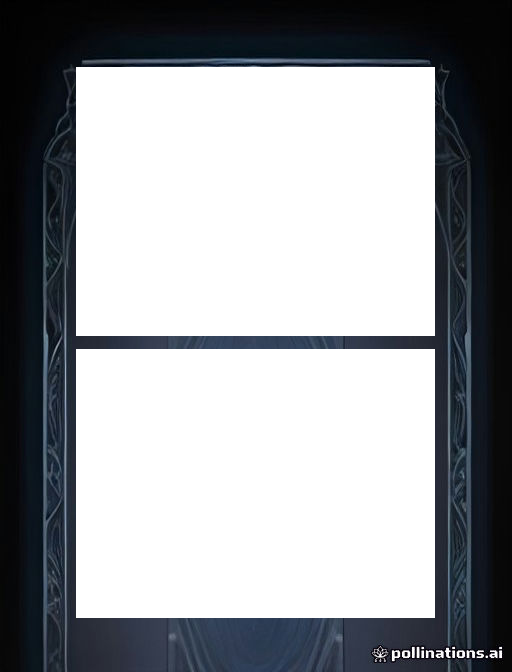
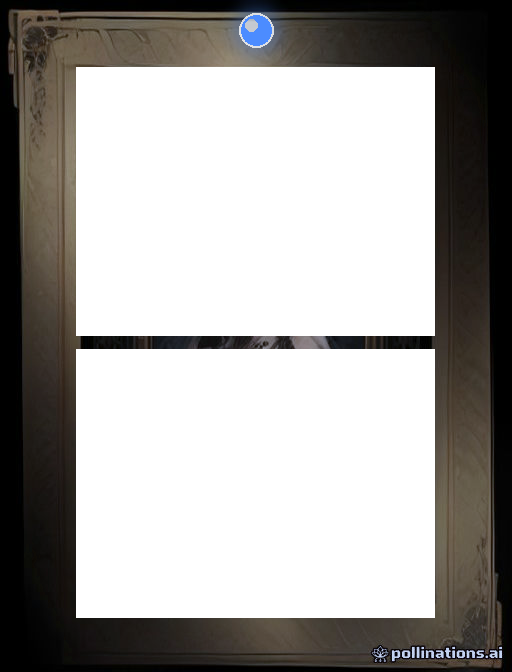
统一卡框：AI生成一个底框+PIL派生5个稀有度版本
- 新增 generate_frames_unified.py：先AI生成银灰底框，再用PIL统一派生
- apply_tint(): 保留亮度替换色相，各稀有度边框颜色不同但设计一致
- draw_gem(): 顶部中心绘制发光宝石（蓝/橙/紫/红），basic无宝石
- 保证框大小、装饰设计完全一致，只有颜色和宝石区分稀有度
- 所有5个卡框基于同一底框，解决之前各自独立生成大小风格不统一问题

Changed region(s): [[0.0, 0.0, 1.0, 1.0]]

diff --git a/art_assets/generate_frames_unified.py b/art_assets/generate_frames_unified.py
@@ -1,0 +1,166 @@
+"""
+统一卡框生成：先AI生成一个高质量银灰底框，再用PIL派生5个稀有度版本。
+保证框大小、设计完全一致，只有颜色和宝石不同。
+
+Usage: python generate_frames_unified.py
+"""
+import urllib.request
+import urllib.parse
+import time
+import os
+import math
+from PIL import Image, ImageDraw, ImageFilter
+
+BASE_DIR = os.path.dirname(os.path.abspath(__file__))
+FRAMES_DIR = os.path.join(BASE_DIR, "frames")
+os.makedirs(FRAMES_DIR, exist_ok=True)
+
+WIDTH, HEIGHT = 512, 672
+
+BASE_PROMPT = (
+    "dark fantasy card game frame, "
+    "very wide thick broad ornate metallic border frame, "
+    "the border takes up 15 percent of the card width on each side, "
+    "heavy decorative corners with runes and filigree, "
+    "the center is flat solid black with absolutely nothing inside, "
+    "no artwork no illustration no portrait no image in the center, "
+    "only the wide ornate border frame is visible, "
+    "vertical portrait card layout, "
+    "silver and dark grey metal tones with subtle wear, "
+    "high quality game UI design, "
+    "perfectly symmetrical left right mirror symmetry, "
+    "perfectly straight horizontal vertical no tilt no rotation no perspective, "
+    "flat 2D front view no 3D no angle, "
+    "no text no watermark no letters no words"
+)
+
+RARITY_CONFIG = {
+    "frame_basic":    {"color": None,                         "gem": None},
+    "frame_uncommon": {"color": (0.25, 0.45, 0.85),           "gem": (0.30, 0.55, 1.00)},
+    "frame_rare":     {"color": (0.85, 0.55, 0.20),           "gem": (1.00, 0.65, 0.20)},
+    "frame_epic":     {"color": (0.60, 0.30, 0.80),           "gem": (0.70, 0.35, 1.00)},
+    "frame_unique":   {"color": (0.85, 0.25, 0.25),           "gem": (1.00, 0.25, 0.25)},
+}
+
+
+def generate_base_frame(seed=42):
+    """AI生成银灰底框"""
+    encoded = urllib.parse.quote(BASE_PROMPT)
+    url = (
+        f"https://image.pollinations.ai/prompt/{encoded}"
+        f"?width={WIDTH}&height={HEIGHT}&model=flux&nologo=true&seed={seed}"
+    )
+    filepath = os.path.join(FRAMES_DIR, "frame_base_raw.png")
+    for attempt in range(5):
+        try:
+            req = urllib.request.Request(url, headers={"User-Agent": "Mozilla/5.0"})
+            with urllib.request.urlopen(req, timeout=180) as resp:
+                data = resp.read()
+            if len(data) < 1000:
+                print(f"  FAIL (too small): attempt {attempt+1}")
+                continue
+            with open(filepath, "wb") as f:
+                f.write(data)
+            img = Image.open(filepath).convert("RGBA")
+            img.save(filepath, "PNG")
+            print(f"  OK ({len(data)} bytes): frame_base_raw.png")
+            return filepath
+        except Exception as e:
+            print(f"  FAIL ({e}): attempt {attempt+1}")
+        time.sleep(30)
+    return None
+
+
+def apply_tint(img, tint_color):
+    """对边框像素应用色调：保留亮度，替换色相"""
+    if tint_color is None:
+        return img.copy()
+    w, h = img.size
+    pixels = img.load()
+    result = img.copy()
+    rp = result.load()
+    tr, tg, tb = tint_color
+    for y in range(h):
+        for x in range(w):
+            r, g, b, a = pixels[x, y]
+            if a < 10 or (r < 15 and g < 15 and b < 15):
+                continue
+            brightness = (r + g + b) / (3.0 * 255.0)
+            boost = 0.3
+            nr = int((r / 255.0 * (1 - boost) + tr * brightness * boost) * 255)
+            ng = int((g / 255.0 * (1 - boost) + tg * brightness * boost) * 255)
+            nb = int((b / 255.0 * (1 - boost) + tb * brightness * boost) * 255)
+            rp[x, y] = (max(0, min(255, nr)), max(0, min(255, ng)), max(0, min(255, nb)), a)
+    return result
+
+
+def draw_gem(img, gem_color, gem_pos=None):
+    """在顶部中心绘制发光宝石"""
+    if gem_color is None:
+        return img
+    w, h = img.size
+    if gem_pos is None:
+        cx, cy = w // 2, int(h * 0.045)
+    else:
+        cx, cy = gem_pos
+    radius = int(w * 0.035)
+    glow_radius = int(radius * 2.5)
+
+    glow_layer = Image.new("RGBA", (w, h), (0, 0, 0, 0))
+    glow_draw = ImageDraw.Draw(glow_layer)
+    gr, gg, gb = [int(c * 255) for c in gem_color]
+    for r in range(glow_radius, radius, -1):
+        alpha = int(80 * (1 - (r - radius) / max(1, glow_radius - radius)) ** 2)
+        glow_draw.ellipse([cx - r, cy - r, cx + r, cy + r], fill=(gr, gg, gb, alpha))
+    glow_layer = glow_layer.filter(ImageFilter.GaussianBlur(3))
+
+    gem_layer = Image.new("RGBA", (w, h), (0, 0, 0, 0))
+    gem_draw = ImageDraw.Draw(gem_layer)
+    gem_draw.ellipse([cx - radius, cy - radius, cx + radius, cy + radius], fill=(gr, gg, gb, 255))
+    highlight_r = int(radius * 0.4)
+    hl_offset = int(radius * 0.3)
+    gem_draw.ellipse(
+        [cx - highlight_r - hl_offset, cy - highlight_r - hl_offset,
+         cx + highlight_r - hl_offset, cy + highlight_r - hl_offset],
+        fill=(255, 255, 255, 160)
+    )
+    gem_draw.ellipse([cx - radius, cy - radius, cx + radius, cy + radius],
+                     outline=(255, 255, 255, 200), width=2)
+
+    result = Image.alpha_composite(img, glow_layer)
+    result = Image.alpha_composite(result, gem_layer)
+    return result
+
+
+def main():
+    print("=== Step 1: Generate base frame ===")
+    base_path = os.path.join(FRAMES_DIR, "frame_base_raw.png")
+    if os.path.exists(base_path):
+        print("  base frame already exists, skipping generation")
+    else:
+        generate_base_frame()
+
+    if not os.path.exists(base_path):
+        print("FATAL: base frame generation failed")
+        return
+
+    print("\n=== Step 2: Derive rarity variants ===")
+    base_img = Image.open(base_path).convert("RGBA")
+    for name, cfg in RARITY_CONFIG.items():
+        print(f"  {name}...")
+        img = apply_tint(base_img, cfg["color"])
+        img = draw_gem(img, cfg["gem"])
+        out_path = os.path.join(FRAMES_DIR, f"{name}.png")
+        img.save(out_path, "PNG")
+        print(f"    saved: {out_path}")
+
+    print("\n=== Step 3: Process (cutout center) ===")
+    import process_frames
+    for name in RARITY_CONFIG:
+        process_frames.process_frame(f"{name}.png")
+
+    print("\nDone! All 5 frames generated with unified border design.")
+
+
+if __name__ == "__main__":
+    main()
